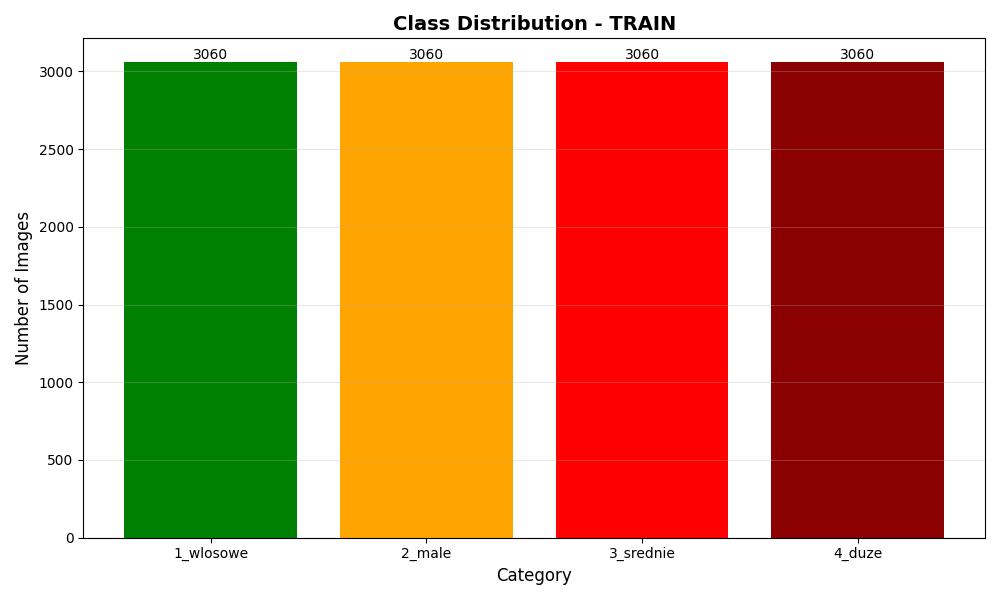
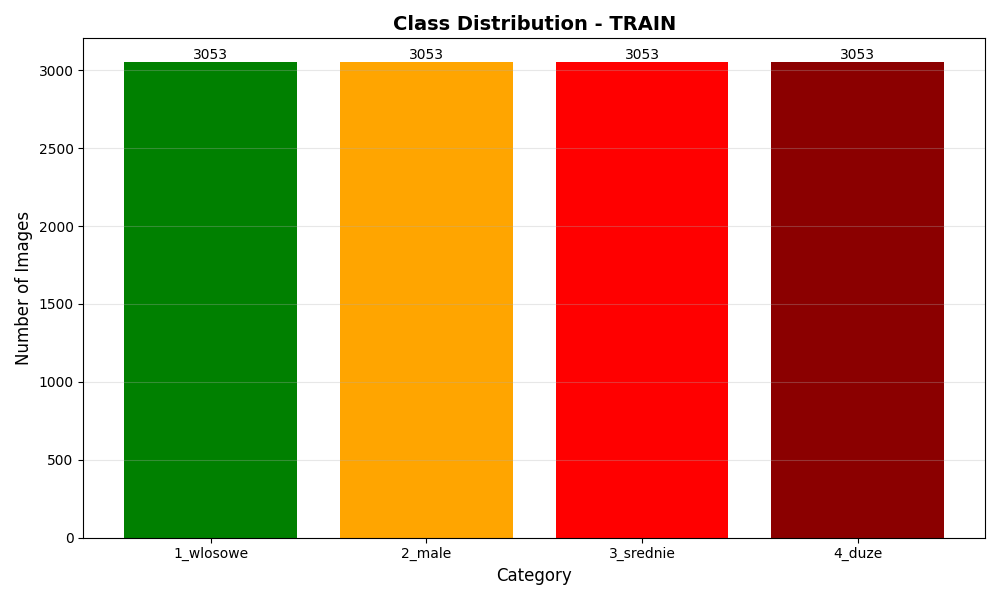
x

diff --git a/src/classification/dataset_labelize/main.py b/src/classification/dataset_labelize/main.py
@@ -62,8 +62,11 @@ def analyze_dataset(mask_dir):
         print(f"Error: Directory {mask_dir} not found.")
         return [], []
 
-    mask_files = [f for f in os.listdir(
-        mask_dir) if f.lower().endswith(('.png', '.jpg', '.jpeg'))]
+    mask_files = [
+        f for f in os.listdir(mask_dir)
+        if f.lower().endswith(('.png', '.jpg', '.jpeg'))
+        and not any(x in f.lower() for x in ['eugene', 'florian', 'volker'])
+    ]
 
     widths = []
     files_with_width = []
@@ -187,8 +190,11 @@ def create_categorized_dataset_width(mask_dir, output_base_dir, image_dir=None, 
     for cat_name in category_names:
         os.makedirs(os.path.join(output_base_dir, cat_name), exist_ok=True)
 
-    mask_files = [f for f in os.listdir(
-        mask_dir) if f.lower().endswith(('.png', '.jpg', '.jpeg'))]
+    mask_files = [
+        f for f in os.listdir(mask_dir)
+        if f.lower().endswith(('.png', '.jpg', '.jpeg'))
+        and not any(x in f.lower() for x in ['eugene', 'florian', 'volker'])
+    ]
     category_counts = {i: 0 for i in range(4)}
 
     print(f"Categorizing {len(mask_files)} files from {mask_dir}...")
@@ -263,8 +269,11 @@ def balance_dataset(dataset_dir, category_names):
 
     for cat in category_names:
         cat_dir = os.path.join(dataset_dir, cat)
-        files = [f for f in os.listdir(
-            cat_dir) if f.lower().endswith(('.png', '.jpg', '.jpeg'))]
+        files = [
+            f for f in os.listdir(cat_dir)
+            if f.lower().endswith(('.png', '.jpg', '.jpeg'))
+            and not any(x in f.lower() for x in ['eugene', 'florian', 'volker'])
+        ]
         counts[cat] = len(files)
         file_lists[cat] = files
         if len(files) > max_count:
